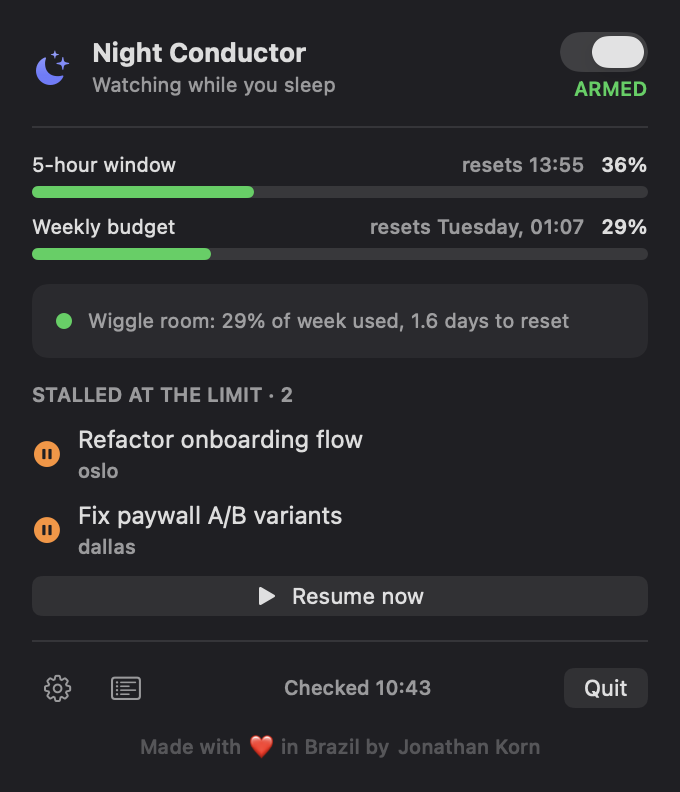
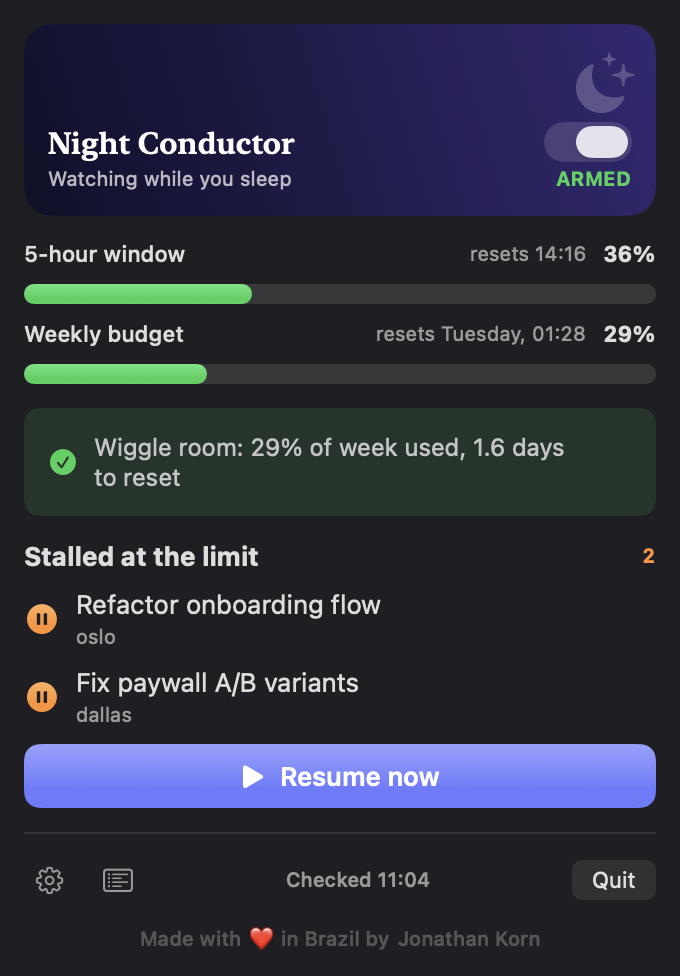
feat(design): adopt Nocturnal direction from /design-shotgun
Picked variant C from the design-shotgun exploration. Restyled the live
popover (all bindings/behavior unchanged):
- Gradient night-sky header card: serif wordmark, atmospheric moon, and
  the arm toggle + ARMED/PAUSED moved to the bottom-right corner
- Expressive meters: thicker (10pt) gradient-filled bars, bold % labels
- Decision pill is now a status-tinted card with a checkmark/pause icon
- 'Stalled at the limit' headline + count, orange.gradient pause icons
- Prominent indigo 'Resume now' button
Removed the design-shotgun scaffolding (DesignVariants.swift + the
--render-variant CLI flag) now that the winning direction is folded in.
13 Swift tests pass; screenshots regenerated.

diff --git a/NightConductor/Sources/NightConductor/MenuView.swift b/NightConductor/Sources/NightConductor/MenuView.swift
@@ -52,7 +52,6 @@ struct MenuView: View {
     var body: some View {
         VStack(alignment: .leading, spacing: Design.l) {
             header
-            Divider()
             usageSection
             decisionRow
             stalledSection
@@ -61,34 +60,52 @@ struct MenuView: View {
             footer
             about
         }
-        .padding(Design.xl)
+        .padding(Design.l)
         .frame(width: 340)
     }
 
+    // Nocturnal header: a gradient night-sky card with the brand wordmark
+    // (bottom-left), the arm control (bottom-right), and an atmospheric moon
+    // (top-right). Each is its own corner so nothing overlaps.
     private var header: some View {
-        HStack(spacing: Design.l) {
+        ZStack(alignment: .topTrailing) {
+            LinearGradient(
+                colors: [Color(red: 0.20, green: 0.16, blue: 0.45),
+                         Color(red: 0.06, green: 0.06, blue: 0.16)],
+                startPoint: .topTrailing, endPoint: .bottomLeading
+            )
             Image(systemName: "moon.stars.fill")
-                .font(.title2)
-                .foregroundStyle(.indigo.gradient) // indigo = brand identity only
-            VStack(alignment: .leading, spacing: Design.xs) {
-                Text("Night Conductor").font(.headline)
-                Text(subtitle).font(.caption).foregroundStyle(.secondary)
+                .font(.system(size: 30))
+                .foregroundStyle(.white.opacity(0.22)) // atmospheric brand mark
+                .padding(Design.l)
+            HStack(alignment: .bottom) {
+                VStack(alignment: .leading, spacing: Design.xs) {
+                    Text("Night Conductor")
+                        .font(.system(.title3, design: .serif).weight(.semibold))
+                        .foregroundStyle(.white)
+                    Text(subtitle).font(.caption).foregroundStyle(.white.opacity(0.7))
+                }
+                Spacer()
+                VStack(alignment: .trailing, spacing: Design.xs) {
+                    Toggle("Arm night watch", isOn: Binding(
+                        get: { state.armed },
+                        set: { state.armed = $0 }
+                    ))
+                    .labelsHidden()
+                    .toggleStyle(.switch)
+                    .controlSize(.small)
+                    .tint(.green)
+                    .help("Arm or disarm the night watch")
+                    Text(state.armed ? "ARMED" : "PAUSED")
+                        .font(.caption2.weight(.bold))
+                        .foregroundStyle(state.armed ? Color.green : .white.opacity(0.6))
+                }
             }
-            Spacer()
-            VStack(alignment: .trailing, spacing: Design.xs) {
-                Toggle("Arm night watch", isOn: Binding(
-                    get: { state.armed },
-                    set: { state.armed = $0 }
-                ))
-                .labelsHidden()
-                .toggleStyle(.switch)
-                .controlSize(.small)
-                .help("Arm or disarm the night watch")
-                Text(state.armed ? "ARMED" : "PAUSED")
-                    .font(.caption2.weight(.semibold))
-                    .foregroundStyle(state.armed ? Color.green : .secondary)
-            }
+            .padding(Design.l)
+            .frame(maxHeight: .infinity, alignment: .bottom)
         }
+        .frame(height: 96)
+        .clipShape(RoundedRectangle(cornerRadius: 14))
     }
 
     private var subtitle: String {
@@ -114,15 +131,17 @@ struct MenuView: View {
 
     private var decisionRow: some View {
         HStack(spacing: Design.m) {
-            Circle()
-                .fill(decisionColor)
-                .frame(width: 8, height: 8)
+            Image(systemName: decisionIcon)
+                .foregroundStyle(decisionColor)
             Text(state.decision?.reason ?? "Waiting for first check…")
-                .font(.caption)
-                .foregroundStyle(.secondary)
+                .font(.callout)
+                .foregroundStyle(.primary.opacity(0.85))
                 .lineLimit(2)
         }
-        .cardSurface()
+        .padding(Design.l)
+        .frame(maxWidth: .infinity, alignment: .leading)
+        .background(decisionColor.opacity(0.12),
+                    in: RoundedRectangle(cornerRadius: Design.cardRadius))
     }
 
     private var decisionColor: Color {
@@ -130,19 +149,29 @@ struct MenuView: View {
         return decision.resume ? .green : .orange
     }
 
+    private var decisionIcon: String {
+        guard let decision = state.decision else { return "clock" }
+        return decision.resume ? "checkmark.circle.fill" : "pause.circle.fill"
+    }
+
     @ViewBuilder
     private var stalledSection: some View {
         if state.stalled.isEmpty {
-            HStack(spacing: 8) {
-                Image(systemName: "zzz").foregroundStyle(.tertiary)
+            HStack(spacing: Design.m) {
+                Image(systemName: "moon.zzz.fill").foregroundStyle(.secondary)
                 Text("No stalled sessions — all quiet")
-                    .font(.caption).foregroundStyle(.tertiary)
+                    .font(.callout).foregroundStyle(.secondary)
             }
+            .padding(.vertical, Design.s)
         } else {
             VStack(alignment: .leading, spacing: Design.m) {
-                Text("STALLED AT THE LIMIT · \(state.stalled.count)")
-                    .font(.caption2.weight(.semibold))
-                    .foregroundStyle(.secondary)
+                HStack {
+                    Text("Stalled at the limit").font(.headline)
+                    Spacer()
+                    Text("\(state.stalled.count)")
+                        .font(.caption.weight(.bold).monospacedDigit())
+                        .foregroundStyle(.orange)
+                }
                 // Bounded height so a long stalled list can't push the
                 // popover past the screen; scrolls past ~4 rows.
                 ScrollView {
@@ -150,11 +179,12 @@ struct MenuView: View {
                         ForEach(state.stalled) { session in
                             HStack(spacing: Design.m) {
                                 Image(systemName: "pause.circle.fill")
-                                    .foregroundStyle(.orange)
+                                    .font(.title3)
+                                    .foregroundStyle(.orange.gradient)
                                 VStack(alignment: .leading, spacing: Design.xs) {
-                                    Text(session.title).font(.callout).lineLimit(1)
+                                    Text(session.title).font(.body).lineLimit(1)
                                     Text(session.workspaceName)
-                                        .font(.caption2).foregroundStyle(.secondary)
+                                        .font(.caption).foregroundStyle(.secondary)
                                 }
                                 Spacer()
                             }
@@ -167,9 +197,16 @@ struct MenuView: View {
                     Task { await state.tick(manual: true) }
                 } label: {
                     Label("Resume now", systemImage: "play.fill")
+                        .font(.body.weight(.semibold))
                         .frame(maxWidth: .infinity)
+                        .padding(.vertical, Design.m)
+                        .background(
+                            (state.isWorking ? Color.gray : Color.indigo).gradient,
+                            in: RoundedRectangle(cornerRadius: Design.cardRadius)
+                        )
+                        .foregroundStyle(.white)
                 }
-                .controlSize(.small)
+                .buttonStyle(.plain)
                 .disabled(state.isWorking)
                 .help("Bypasses the night schedule, never the budget gates")
             }
@@ -280,13 +317,13 @@ struct UsageMeter: View {
     }
 
     var body: some View {
-        VStack(spacing: Design.s) {
+        VStack(spacing: Design.m) {
             HStack {
-                Text(label).font(.caption)
+                Text(label).font(.subheadline.weight(.medium))
                 Spacer()
-                Text(resetText).font(.caption2).foregroundStyle(.secondary)
+                Text(resetText).font(.caption).foregroundStyle(.secondary)
                 Text(window == nil ? "–" : "\(Int(value))%")
-                    .font(.caption.weight(.semibold).monospacedDigit())
+                    .font(.subheadline.weight(.bold).monospacedDigit())
             }
             // Custom bar with an explicit semantic fill. macOS's
             // ProgressView(.linear) ignores .tint in some render contexts,
@@ -295,11 +332,11 @@ struct UsageMeter: View {
                 ZStack(alignment: .leading) {
                     Capsule().fill(Color.secondary.opacity(0.2))
                     Capsule()
-                        .fill(Color.usageStatus(value))
-                        .frame(width: max(4, geo.size.width * min(value, 100) / 100))
+                        .fill(Color.usageStatus(value).gradient)
+                        .frame(width: max(6, geo.size.width * min(value, 100) / 100))
                 }
             }
-            .frame(height: 6)
+            .frame(height: 10)
         }
     }
 }

diff --git a/NightConductor/Sources/NightConductor/Screenshot.swift b/NightConductor/Sources/NightConductor/Screenshot.swift
@@ -22,8 +22,11 @@ enum Screenshotter {
             .fixedSize(horizontal: false, vertical: true)
             .background(Color(red: 0.12, green: 0.12, blue: 0.14))
             .environment(\.colorScheme, .dark)
+        renderHosting(AnyView(root), to: path)
+    }
 
-        let hosting = NSHostingView(rootView: root)
+    private static func renderHosting(_ rootView: some View, to path: String) {
+        let hosting = NSHostingView(rootView: rootView)
         hosting.appearance = NSAppearance(named: .darkAqua)
         hosting.frame = NSRect(x: 0, y: 0, width: 340, height: 900)
 
